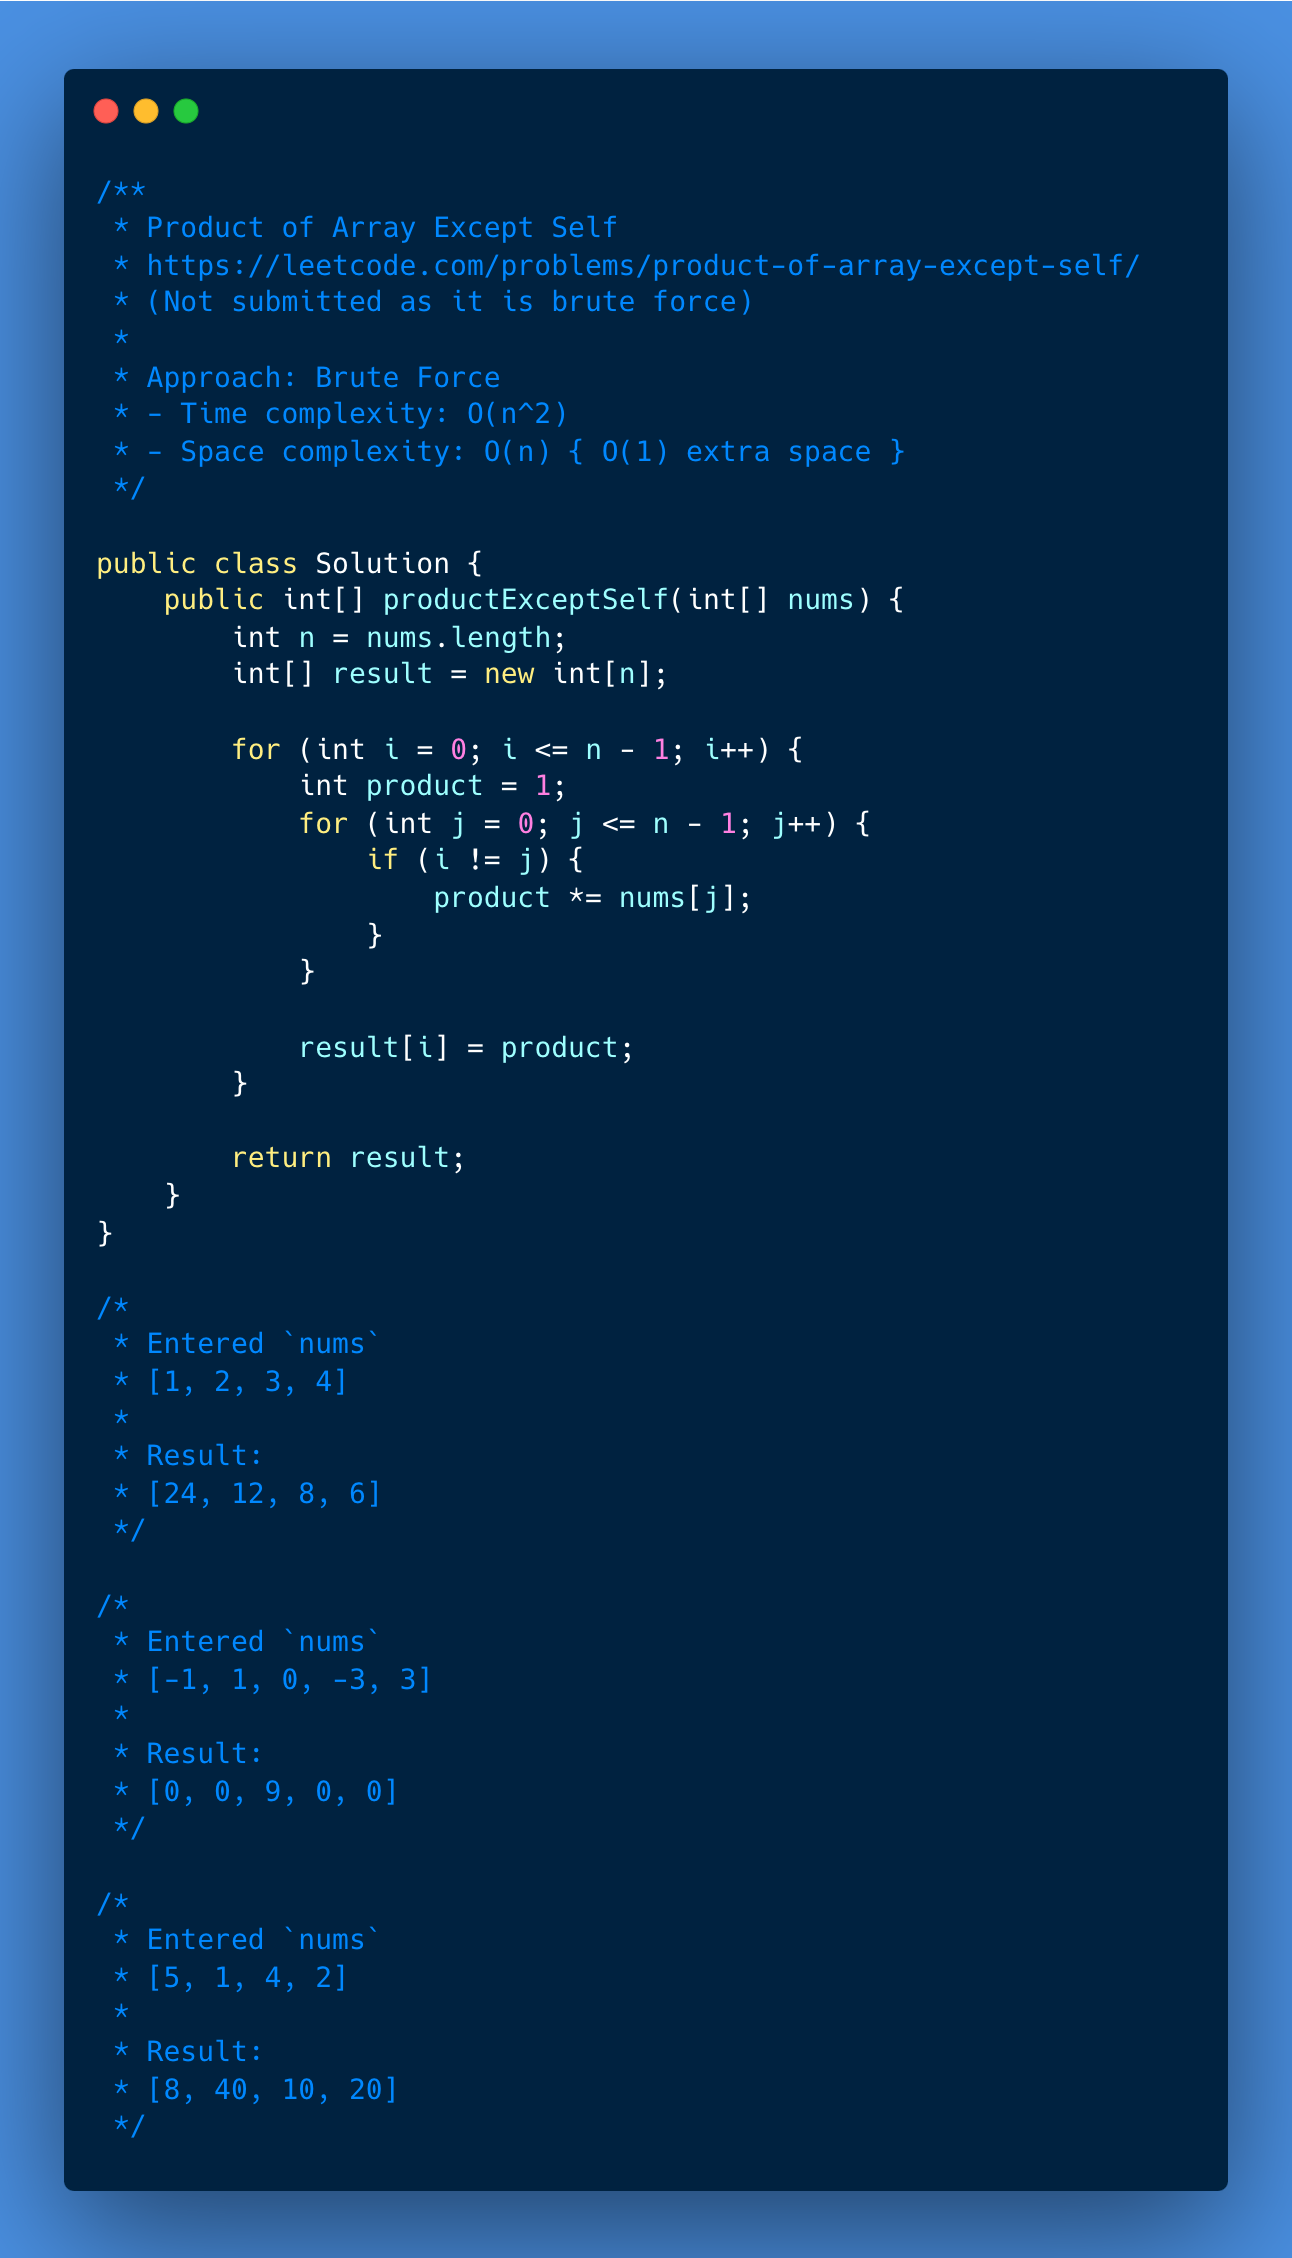
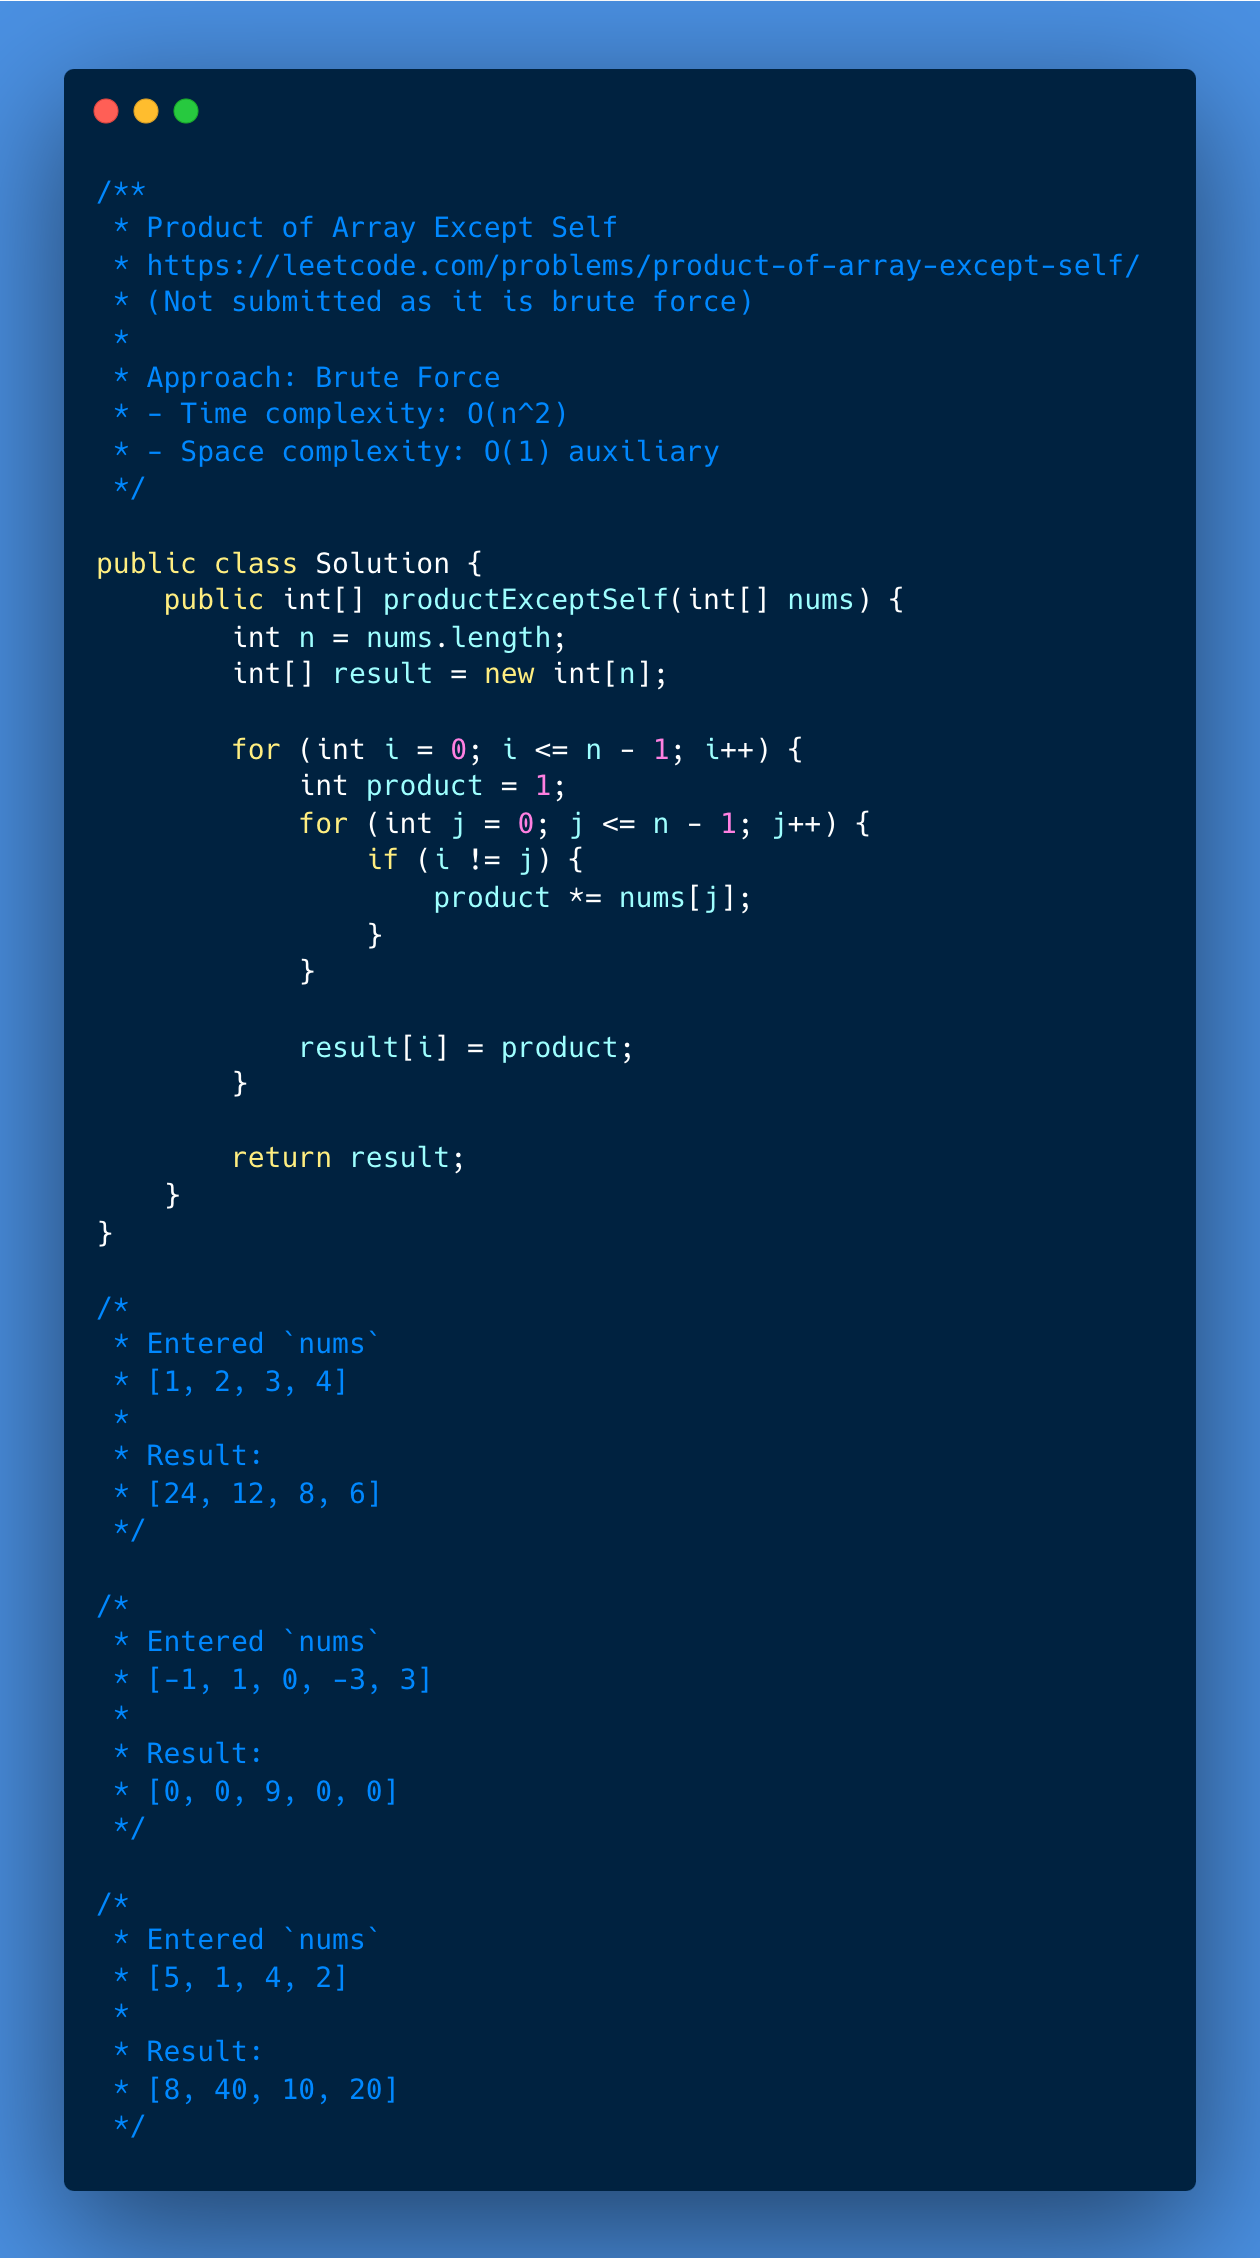
Updates to Product of Array Except Self problem

diff --git a/129-product-of-array-except-self/003-solution/Solution.java b/129-product-of-array-except-self/003-solution/Solution.java
@@ -5,7 +5,7 @@
  * 
  * Approach: Left and Right Product Lists (Optimized)
  * - Time complexity: O(n)
- * - Space complexity: O(n) { O(1) extra space }
+ * - Space complexity: O(1) auxiliary
  */
 
 public class Solution {

diff --git a/129-product-of-array-except-self/001-solution/Solution.java b/129-product-of-array-except-self/001-solution/Solution.java
@@ -5,7 +5,7 @@
  * 
  * Approach: Brute Force
  * - Time complexity: O(n^2)
- * - Space complexity: O(n) { O(1) extra space }
+ * - Space complexity: O(1) auxiliary
  */
 
 public class Solution {
